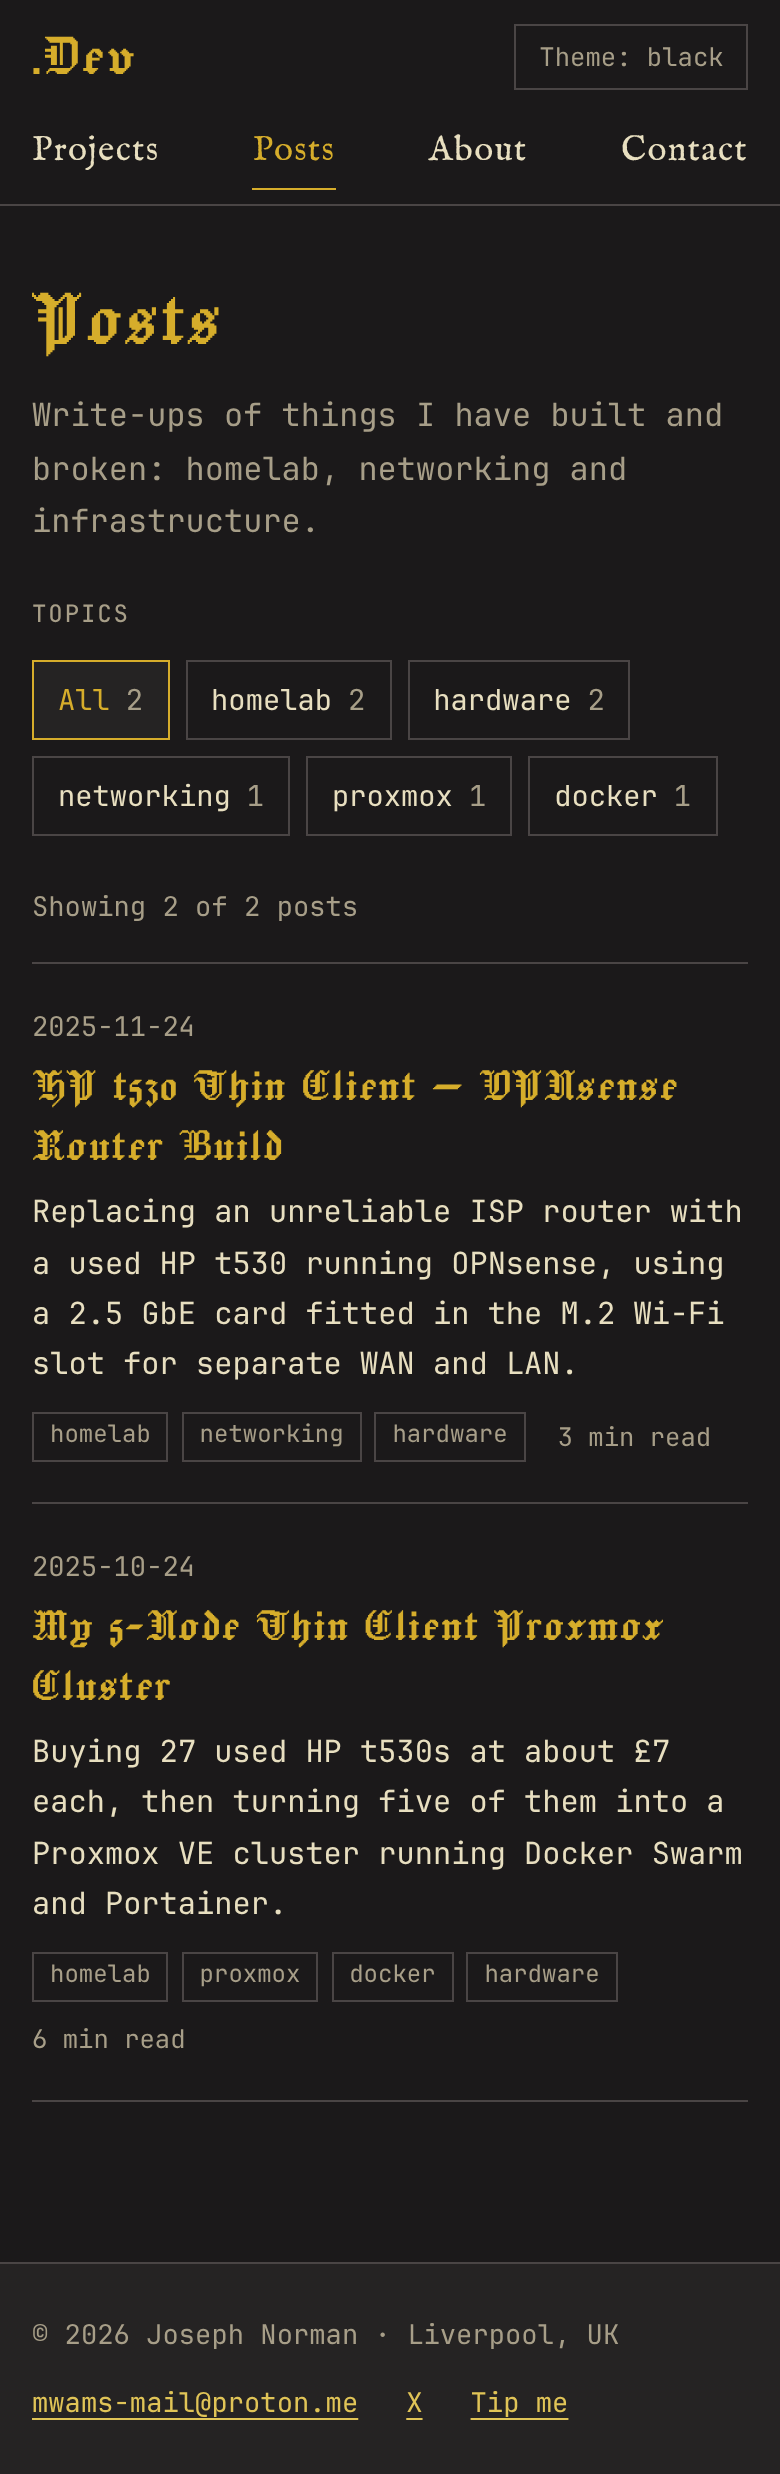
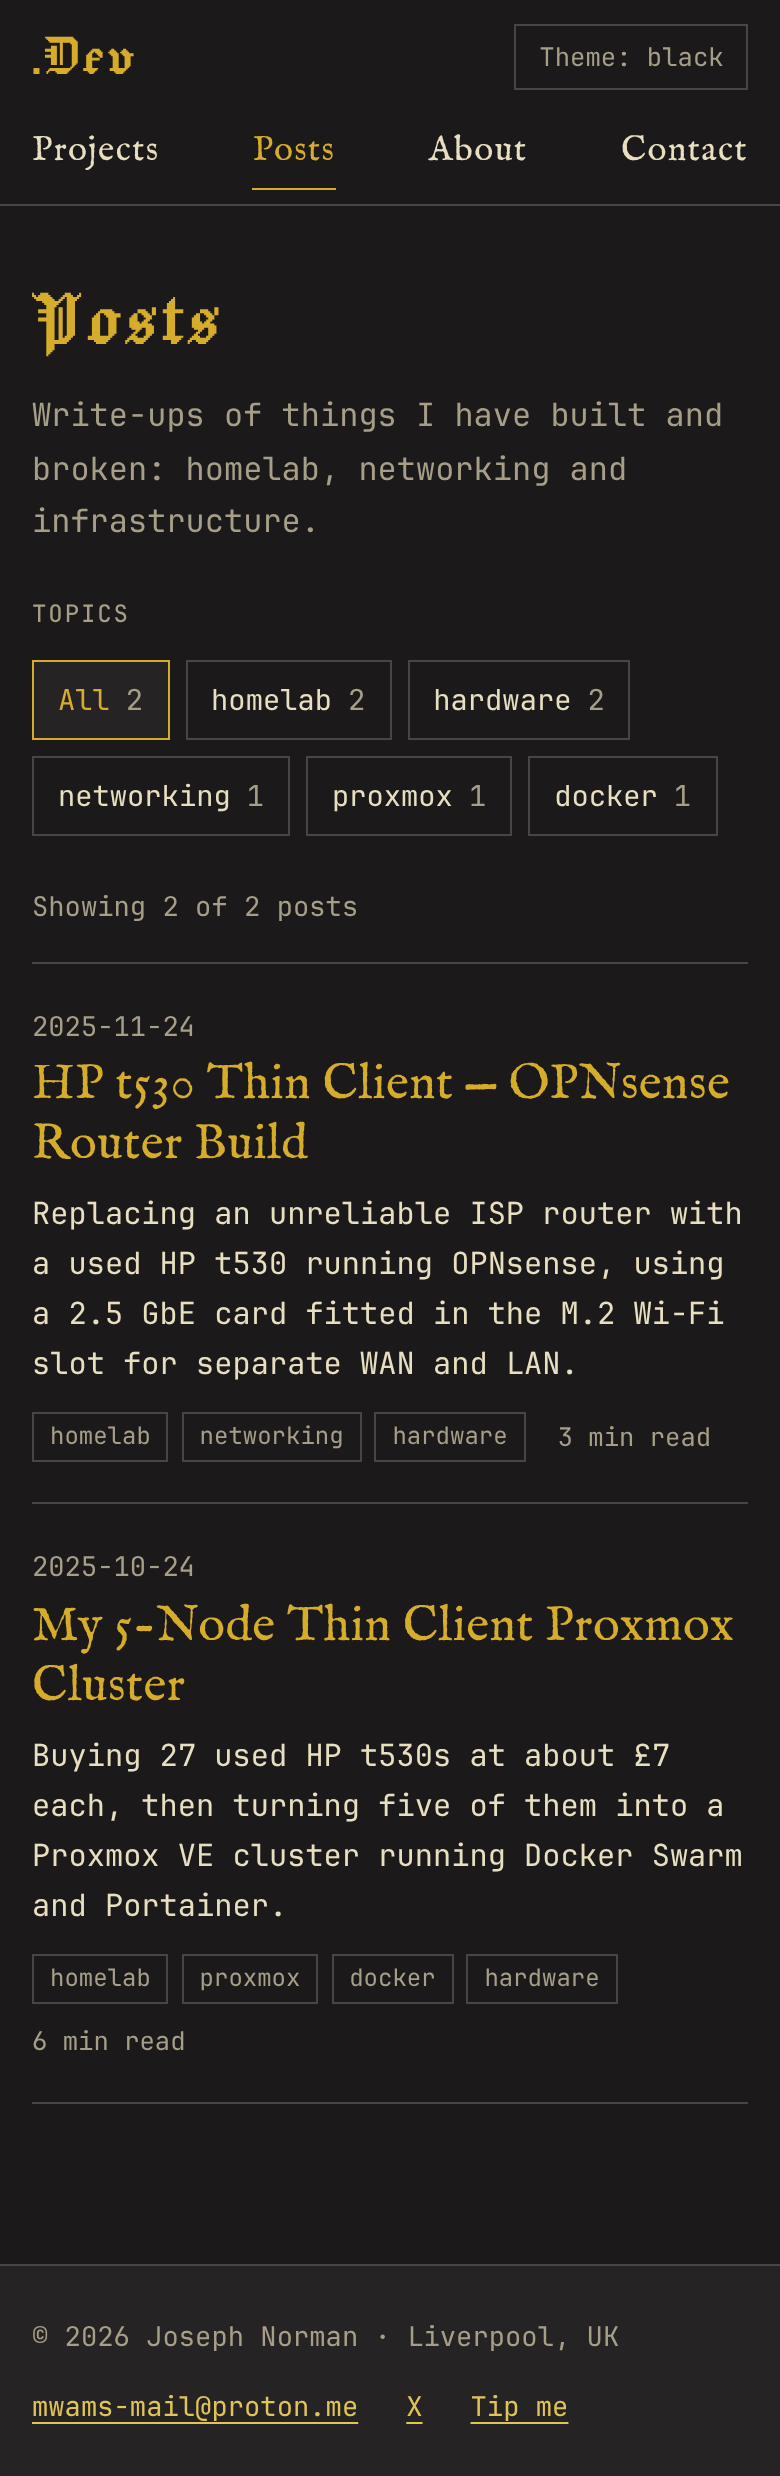
Use IM Fell English for post titles so they are readable
Claude-Session: https://claude.ai/code/session_01SjAzHDYb82ajh4YYuD6SQw

diff --git a/mocks/css/style.css b/mocks/css/style.css
@@ -193,7 +193,7 @@ a:hover { color: var(--text); }
 }
 .post-row__link:hover { background: var(--surface); }
 .post-row__date { font-size: 0.85rem; color: var(--muted); padding-top: 0.55rem; }
-.post-row__title { font-family: 'Jacquard 24', serif; font-weight: 400; font-size: 1.9rem; line-height: 1.15; letter-spacing: 0.03em; color: var(--accent); }
+.post-row__title { font-family: 'IM Fell English', serif; font-weight: 400; font-size: 1.85rem; line-height: 1.2; letter-spacing: 0.01em; color: var(--accent); }
 .post-row__link:hover .post-row__title { text-decoration: underline; text-underline-offset: 0.2em; text-decoration-thickness: 1px; }
 .post-row__summary { font-size: 0.95rem; margin: 0.4rem 0 0.75rem; max-width: 40rem; }
 .post-row__meta { display: flex; flex-wrap: wrap; align-items: center; gap: 0.5rem 1rem; font-size: 0.8rem; color: var(--muted); }
@@ -226,7 +226,7 @@ a:hover { color: var(--text); }
   .page-head h1 { font-size: 2.75rem; }
   .post-row__link { grid-template-columns: 1fr; padding: 1.25rem 0; }
   .post-row__date { padding-top: 0; order: -1; }
-  .post-row__title { font-size: 1.6rem; }
+  .post-row__title { font-size: 1.55rem; }
   .card { padding: 1.25rem; }
   .site-footer__inner { flex-direction: column; }
 }
